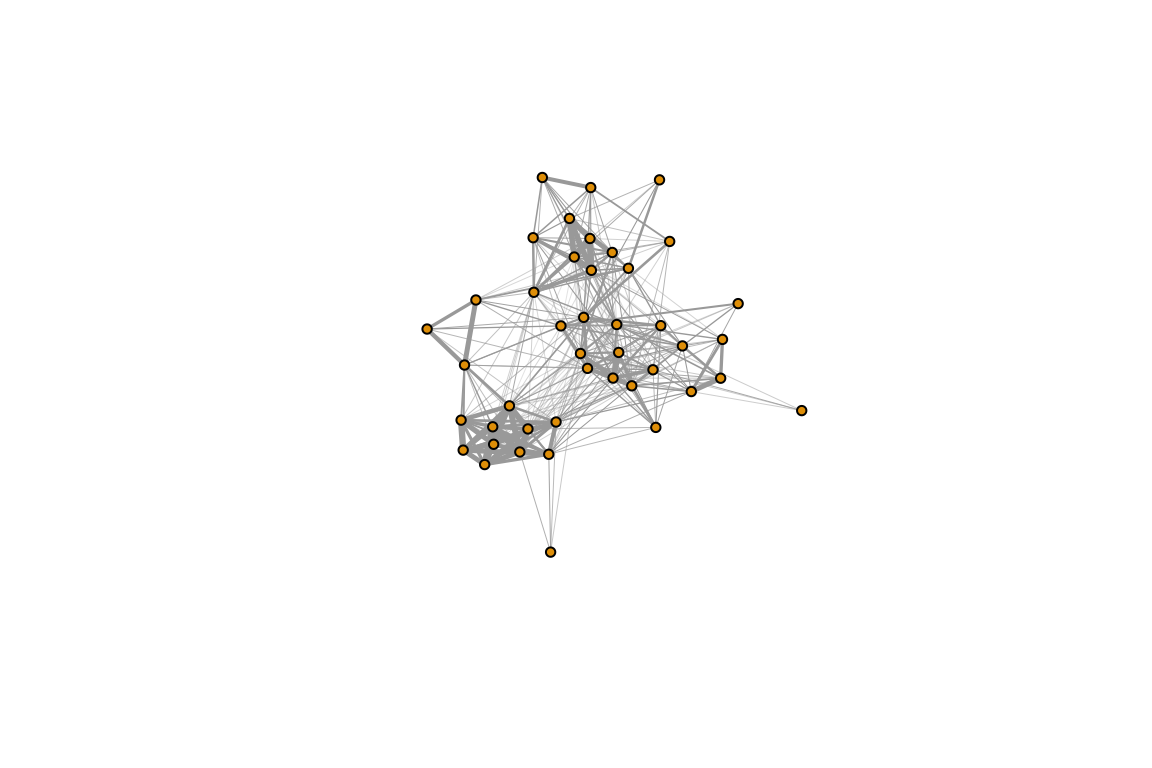
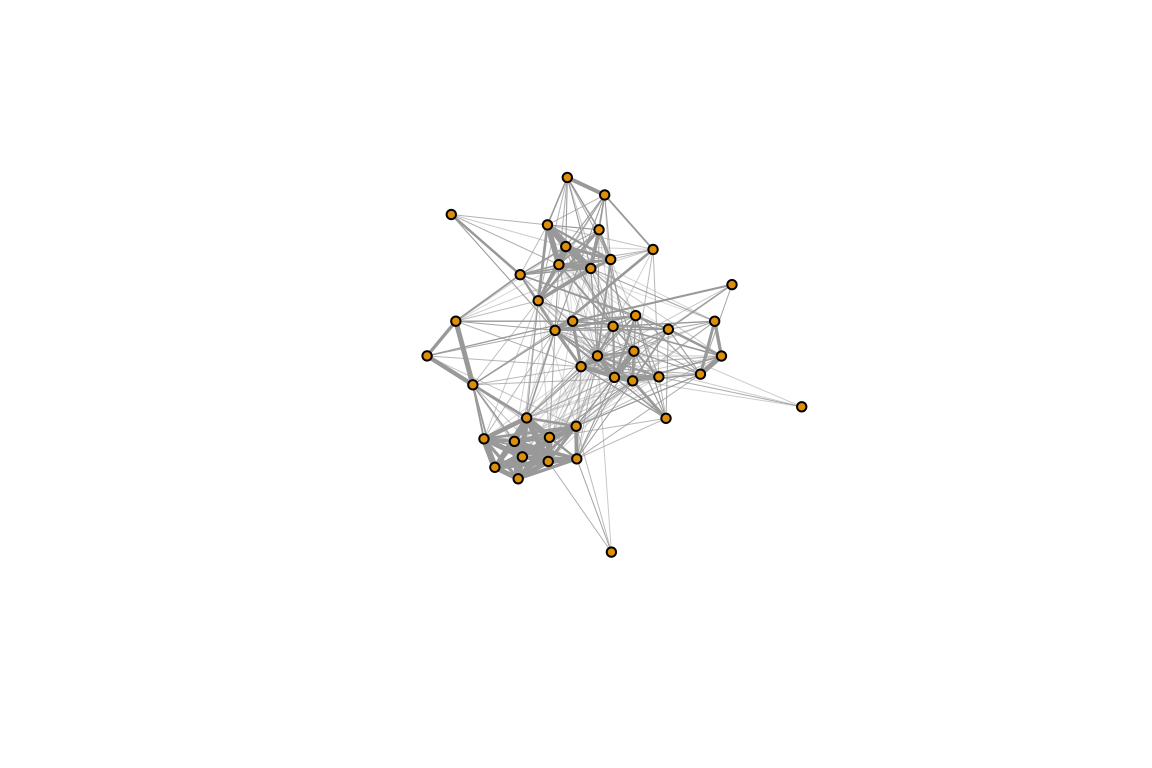
update

Changed region(s): [[0.3438, 0.2188, 0.6875, 0.7188], [0.5625, 0.2188, 0.5938, 0.25]]

diff --git a/example_data_to_network.html b/example_data_to_network.html
@@ -310,6 +310,8 @@ m1</code></pre>
 <pre class="r"><code>adj=get_network(t(m1), data_format=&quot;GBI&quot;,&quot;SRI&quot;) # the adjacency matrix</code></pre>
 <pre><code>## Generating  47  x  47  matrix</code></pre>
 <pre class="r"><code>g=graph_from_adjacency_matrix(adj, &quot;undirected&quot;, weighted=T) #the igraph object
+
+set.seed(2)
 plot(g, edge.width=E(g)$weight*10, vertex.label=&quot;&quot;, vertex.size=5) #plot it</code></pre>
 <p><img src="example_data_to_network_files/figure-html/unnamed-chunk-11-1.png" width="576" style="display: block; margin: auto;" /></p>
 <p>This is the sparrow social network!</p>
@@ -335,6 +337,7 @@ plot(g, edge.width=E(g)$weight*10, vertex.label=&quot;&quot;, vertex.size=5) #pl
 adj=get_network(t(m2), data_format=&quot;GBI&quot;,&quot;SRI&quot;)</code></pre>
 <pre><code>## Generating  43  x  43  matrix</code></pre>
 <pre class="r"><code>g=graph_from_adjacency_matrix(adj, &quot;undirected&quot;, weighted=T)
+set.seed(2)
 plot(g, edge.width=E(g)$weight*10, vertex.label=&quot;&quot;, vertex.size=5)</code></pre>
 <p><img src="example_data_to_network_files/figure-html/unnamed-chunk-13-1.png" width="576" style="display: block; margin: auto;" /></p>
 <div id="community-structure" class="section level4">
@@ -342,8 +345,10 @@ plot(g, edge.width=E(g)$weight*10, vertex.label=&quot;&quot;, vertex.size=5)</co
 <p>In the study, we used the ‘fast greedy’ modularity-optimization method for identifying communities within the network and colored the nodes based on those assignments. Here is how we did that:</p>
 <pre class="r"><code>com=fastgreedy.community(g) #community detection method
 node.colors=membership(com) #assign node color based on community membership
+set.seed(2)
 plot(g, edge.width=E(g)$weight*10, vertex.label=&quot;&quot;, vertex.size=5, vertex.color=node.colors)</code></pre>
 <p><img src="example_data_to_network_files/figure-html/unnamed-chunk-14-1.png" width="576" style="display: block; margin: auto;" /></p>
+<p>Compare this network to the figure shown at the top of the page.</p>
 </div>
 </div>
 </div>
